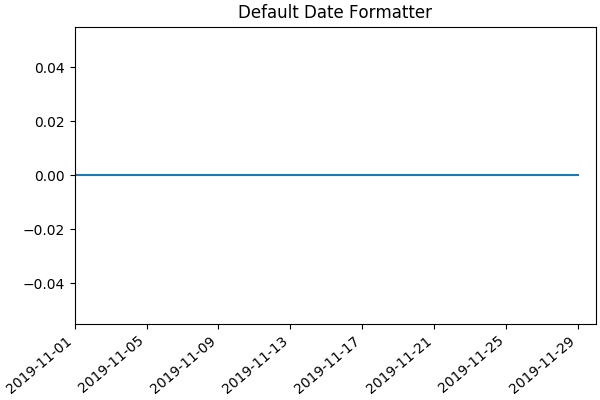
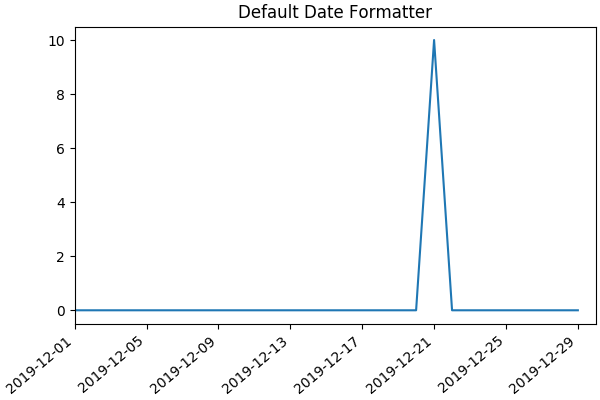
Final log frontend finished

diff --git a/src/templates/heat_plot.html b/src/templates/heat_plot.html
@@ -22,17 +22,18 @@
                 <div>
                         <p>Most Viewed books</p>
                         <div style="overflow-x: scroll; height: 220px; padding: 10px; padding-top: 25px; padding-left: 20px; margin: 10px; white-space:nowrap; box-shadow: inset 2px -1px 18px -3px rgba(36,35,36,0.57); ">
-                            {% for book in cat_books %}
+                            {% for book in cat_book_list %}
                                 {{ loop.index }}
                                 <a href="{{ url_for('info', asin=book.asin) }}"> <img src={{ book.imUrl }} alt="Image" style="width: 160px; height: 160px; display: inline;" class="img-fluid tm-img-center"></a>
                             {% endfor %} 
                         </div>
                 </div>
 
-<h2>log frequency over the last month</h2>
+<h2>Web Traffic</h2>    
+<h3>log frequency over the last month</h3>
    <img src='img/plot_trend.png'> 
 
-<h2>Log Distribution in a Week</h2>    
+<h3>Log Distribution in a Week</h3>    
 <body class="body-style-1">
 {% extends 'log_plot1.html' %} 
    <h4>week.tsv: most recent week record distribution</h4>

diff --git a/src/templates/log_plot1.html b/src/templates/log_plot1.html
@@ -38,7 +38,7 @@
           colors = ["#ffffd9","#edf8b1","#c7e9b4","#7fcdbb","#41b6c4","#1d91c0","#225ea8","#253494","#081d58"], // alternatively colorbrewer.YlGnBu[9]
           days = ["Mo", "Tu", "We", "Th", "Fr", "Sa", "Su"],
           times = ["1a", "2a", "3a", "4a", "5a", "6a", "7a", "8a", "9a", "10a", "11a", "12a", "1p", "2p", "3p", "4p", "5p", "6p", "7p", "8p", "9p", "10p", "11p", "12p"];
-          datasets = ["/data/week.tsv", "/data/all.tsv","data/demo.tsv"];
+          datasets = ["data/last_week_history.tsv", "data/all_history.tsv","data/demo.tsv"];
 
       var svg = d3.select("#chart").append("svg")
           .attr("width", width + margin.left + margin.right)
@@ -133,7 +133,7 @@
 
       datasetpicker.enter()
         .append("input")
-        .attr("value", function(d){ return "Dataset " + d })
+        .attr("value", function(d){ return ""+d.slice(5, -4)})
         .attr("type", "button")
         .attr("class", "dataset-button")
         .on("click", function(d) {

diff --git a/src/templates/home_page.html b/src/templates/home_page.html
@@ -53,7 +53,7 @@
                         <li class="nav-item"><a class="nav-link" href='{{ url_for( "addBook") }}'>Add Book</a></li>
                         <li class="nav-item"><a class="nav-link" href='{{ url_for( "plot") }}'>Web Analytics</a></li>
                         {% else %}
-                        <li class="nav-item"><a class="nav-link" href='{{ url_for( "plot1") }}'>Your History</a></li>
+                        <li class="nav-item"><a class="nav-link" href='{{ url_for( "plot") }}'>Your History</a></li>
                         {% endif %}
                     </ul>
                 </div>

diff --git a/src/mongoService.py b/src/mongoService.py
@@ -32,103 +32,21 @@ class Mg:
         re=pd.DataFrame({"cnt":df.groupby(['date']).size()}).reset_index().to_numpy()
         return re[:,0],re[:,1]    
     
-    def plot_test(self):
-        s = pd.Series([1, 2, 3])
-        fig, ax = plt.subplots()
-        s.plot.bar()
-        fig.savefig('img/my_plot.png')
-
-    def plot_trend(self):
-        #get df from mongoDB
-        a=self.log.find({})
-        df=pd.DataFrame(list(a))
-        df=df.drop(['_id', 'query_type', 'query', 'response','user_type'],axis=1)
-        df["date"]=df.apply(lambda row:time.strftime('%Y-%m-%d',
-            time.localtime(row.time_stamp)),axis=1)
-
-        re=pd.DataFrame({"cnt":df.groupby(['date']).size()}).reset_index().to_numpy()
-        #data to plot        
-        dates=re[:,0].astype("datetime64[D]")
-        y=re[:,1]
-        #plot fig
-        fig, ax = plt.subplots(1, 1, constrained_layout=True, figsize=(6, 4))
-        start=np.datetime64('2019-11-01')
-        end=np.datetime64('2019-11-30')
-        lims=(start,end)
-        #add zero
-        
-        all_dates = np.arange(start,end, DT.timedelta(days=1)).astype("datetime64[D]")
-        y_0=np.zeros(len(all_dates))
-
-        for i,o in enumerate(dates):
-            result=np.where(all_dates==o)
-            y_0[result]=y[i]
-        
-        # Plot
-        ax.plot(all_dates, y_0)
-        ax.set_xlim(lims)
-        # rotate_labels...
-        for label in ax.get_xticklabels():
-            label.set_rotation(40)
-            label.set_horizontalalignment('right')
-        ax.set_title('Default Date Formatter')
-        fig.savefig('img/plot_trend.png')
-    
-    def plot_heat(self,choice=1):
-        #for last 7 days:
-        if choice==0:
-            week_ago=(DT.date.today() - DT.timedelta(8)).strftime("%s")
-            a=self.log.find({"time_stamp" : {"$gte": float(week_ago)}})
-            file_name='data/week.tsv'            
-        #for all previous history
-        else:
-            a=self.log.find({})
-            file_name='data/all.tsv'
-        #append result to ls
-        ls=[]
-        for i in a:
-            ls.append(i)
-        week_dic={"Monday":1,
-                  "Tuesday":2,
-                  "Wednesday":3,
-                  "Thursday":4,
-                  "Friday":5,
-                  "Saturday":6,
-                  "Sunday":7
-                }
-        #write to tsv file for quick parsing
-        try:
-            #if file exits,overwrite
-            with open(file_name, 'w') as out_file:
-                tsv_writer = csv.writer(out_file, delimiter='\t')
-                tsv_writer.writerow(["day","hour","value"])
-                for i in ls:
-                    t=i["time_stamp"]
-                    t1=time.strftime('%A %H', time.localtime(t)).split(" ")
-                    tsv_writer.writerow([week_dic[t1[0]],t1[1],1])
-        except:
-            #if not, create file
-            with open(file_name, 'a') as out_file:
-                tsv_writer = csv.writer(out_file, delimiter='\t')
-                tsv_writer.writerow(["day","hour","value"])
-                for i in ls:
-                    t=i["time_stamp"]
-                    print(t)
-                    t1=time.strftime('%A %H', time.localtime(t)).split(" ")
-                    tsv_writer.writerow([week_dic[t1[0]],t1[1],1])
-
     def get_highest_viewed_books(self, k=5):
+        # For admin
         all_query = list(self.log.find({}, {'query':1}))
         asins = [d['query'].split('/')[-1] for d in all_query if d['query'].split('/')[-1].startswith('B')]
-        print([item for item, c in Counter(asins).most_common(k)])
-        print('a')
-        return  [item for item, c in Counter(asins).most_common(k)]
+        most_common_asins = [item for item, c in Counter(asins).most_common(k)]
+        books = [next(self.con.find({"asin": o})) for o in most_common_asins]
+        return books
    
     def get_highest_view_books_by_user(self, userid, k=5):
+        # For user
         all_query = list(self.log.find({'userid':userid}, {'query':1}))
         asins = [d['query'].split('/')[-1] for d in all_query if d['query'].split('/')[-1].startswith('B')]
-        return [item for item, c in Counter(asins).most_common(k)]
-
+        most_common_asins = [item for item, c in Counter(asins).most_common(k)]
+        books = [next(self.con.find({"asin": o})) for o in most_common_asins]
+        return books
 
     def get_bestsellers(self):
         a=self.con.find({"salesRank":{'$exists': 1}})

diff --git a/src/mongoService_visualize.py b/src/mongoService_visualize.py
@@ -30,11 +30,11 @@ class Mg:
         re=pd.DataFrame({"cnt":df.groupby(['date']).size()}).reset_index().to_numpy()
         return re[:,0],re[:,1]    
     
-    def plot_test(self):
-        s = pd.Series([1, 2, 3])
-        fig, ax = plt.subplots()
-        s.plot.bar()
-        fig.savefig('img/my_plot.png')
+    # def plot_test(self):
+    #     s = pd.Series([1, 2, 3])
+    #     fig, ax = plt.subplots()
+    #     s.plot.bar()
+    #     fig.savefig('img/my_plot.png')
 
     def plot_trend(self):
         #get df from mongoDB
@@ -50,8 +50,8 @@ class Mg:
         y=re[:,1]
         #plot fig
         fig, ax = plt.subplots(1, 1, constrained_layout=True, figsize=(6, 4))
-        start=np.datetime64('2019-11-01')
-        end=np.datetime64('2019-11-30')
+        start=np.datetime64('2019-12-01')
+        end=np.datetime64('2019-12-30')
         lims=(start,end)
         #add zero
         
@@ -77,11 +77,11 @@ class Mg:
         if choice==0:
             week_ago=(DT.date.today() - DT.timedelta(8)).strftime("%s")
             a=self.log.find({"time_stamp" : {"$gte": float(week_ago)}})
-            file_name='data/week.tsv'            
+            file_name='data/last_week_history.tsv'            
         #for all previous history
         else:
             a=self.log.find({})
-            file_name='data/all.tsv'
+            file_name='data/all_history.tsv'
         #append result to ls
         ls=[]
         for i in a:

diff --git a/src/app.py b/src/app.py
@@ -33,19 +33,14 @@ def send_data(path):
 def plot():
     #mg.plot_test()
     mg_visualize.plot_trend()
-    mg.get_highest_viewed_books()
+    mg_visualize.plot_heat(choice=0)
+    mg_visualize.plot_heat(choice=1)
     cat_book_list = mg.get_highest_viewed_books()
     is_admin = False
 
     if 'user' in session: is_admin = session['isadmin']
-    return render_template("heat_plot.html", catbook_list=cat_book_list, isadmin=is_admin,
+    return render_template("heat_plot.html", cat_book_list=cat_book_list, isadmin=is_admin,
                            in_session=('user' in session))
-
-@app.route("/plot1")
-def plot1():
-    # return render_template("dashboard.html")
-    #mg.plot_test()
-    return render_template("heat_plot.html")
 
 @app.route("/home_page")
 def home_page():
